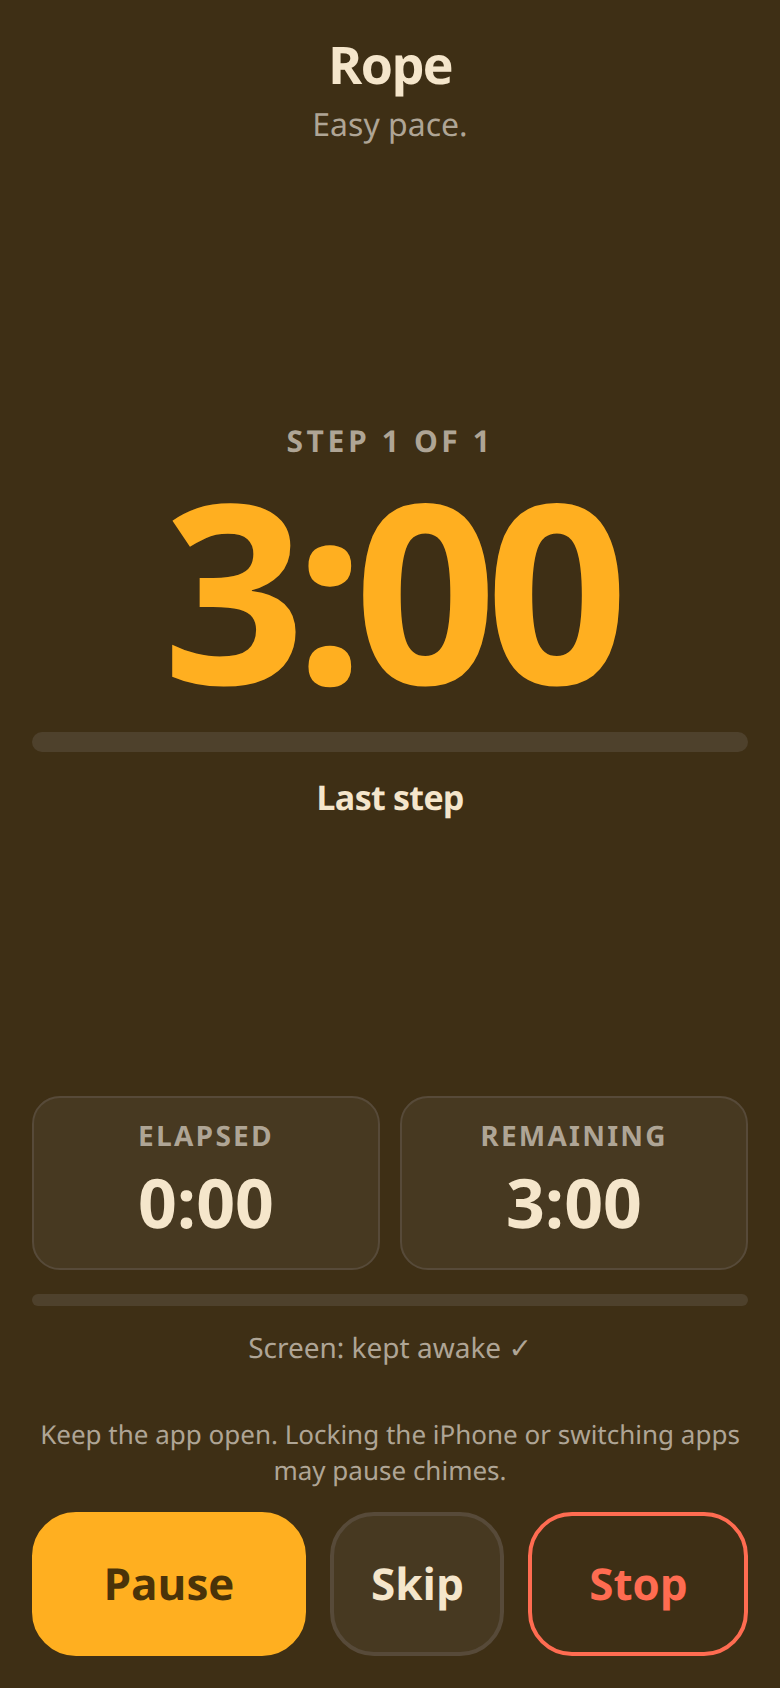
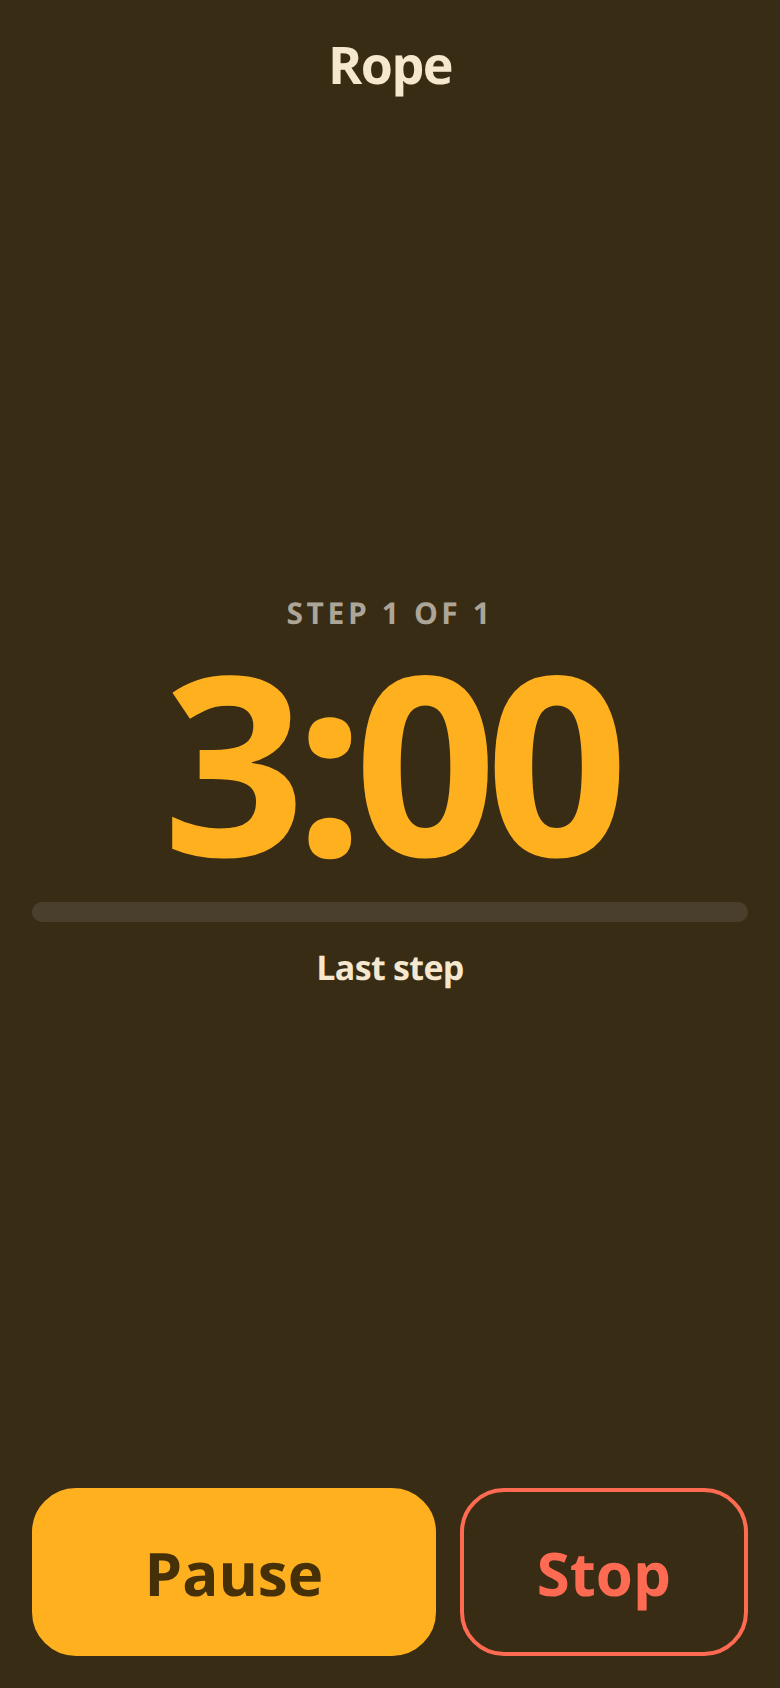
Show the next exercise during rest and drop the extra run-screen copy. (#7)
Rest now names the upcoming step, its cue, and the round. Skip and the keep-the-phone-open notes are gone. Service worker cache is v9.

diff --git a/app.js b/app.js
@@ -1604,6 +1604,35 @@
     var info = workoutAt(el);
     return info.step ? info.step.kind : 'work';
   }
+  function roundBits(step) {
+    var m = String(step && step.name || '').match(/round\s+(\d+)\s+of\s+(\d+)/i);
+    return m ? { n: m[1], of: m[2] } : null;
+  }
+  function currentSetLabel(info) {
+    var step = info.step;
+    var bits = roundBits(step);
+    if (!bits && step && step.kind === 'rest' && info.index > 0) bits = roundBits(run.steps[info.index - 1]);
+    if (bits) return 'Round ' + bits.n + ' of ' + bits.of;
+    return 'Step ' + (info.index + 1) + ' of ' + run.steps.length;
+  }
+  // Rest shows the upcoming work: name, round, and cue. Display only.
+  function nextStepLine(step) {
+    if (!step) return '';
+    if (step.kind === 'rest') return 'Next: Rest';
+    var bits = roundBits(step);
+    var exercise = bits && step.block ? step.block : (step.block && step.block !== step.name ? step.block : step.name);
+    var parts = [];
+    if (exercise) parts.push(exercise);
+    if (bits) parts.push('round ' + bits.n + ' of ' + bits.of);
+    var line = 'Next: ' + parts.join(', ');
+    var cue = String(step.cue || '').replace(/\s+/g, ' ').trim();
+    if (cue) {
+      if (!/[.!?]$/.test(line)) line += '.';
+      line += ' ' + cue;
+      if (!/[.!?]$/.test(cue)) line += '.';
+    }
+    return line.replace(/\s+/g, ' ').trim();
+  }
   function renderWorkout(el, done) {
     ui.run.classList.toggle('paused', run.state === 'paused');
     ui.run.classList.toggle('done', done);
@@ -1634,9 +1663,6 @@
     if (step.cue && step.block && step.block !== step.name) sub = step.block + ' · ' + step.cue;
     else if (step.cue) sub = step.cue;
     else if (step.block && step.block !== step.name) sub = step.block;
-    setText(ui.interval, 'int', step.name);
-    setText(ui.label, 'lbl', run.state === 'paused' ? 'Paused' : ('Step ' + (info.index + 1) + ' of ' + run.steps.length));
-    setText(ui.every, 'every', sub);
     setText(ui.count, 'cnt', cdTxt);
     setText(ui.elapsed, 'el', fmt(el / 1000));
     setText(ui.remaining, 'rem', fmt(Math.ceil(Math.max(0, run.totalMs - el) / 1000 - 1e-6)));
@@ -1646,7 +1672,17 @@
     setWidth(ui.tbar, 'tb', run.totalMs > 0 ? Math.min(100, el / run.totalMs * 100) : 0);
     setText(ui.pause, 'pause', run.state === 'paused' ? 'Resume' : 'Pause');
     var nxt = run.steps[info.index + 1];
-    setNext(nxt ? ('Next · ' + nxt.name) : 'Last step');
+    if (step.kind === 'rest') {
+      setText(ui.interval, 'int', currentSetLabel(info));
+      setText(ui.label, 'lbl', run.state === 'paused' ? 'Paused' : 'Rest');
+      setText(ui.every, 'every', '');
+      setNext(nextStepLine(nxt));
+    } else {
+      setText(ui.interval, 'int', step.name);
+      setText(ui.label, 'lbl', run.state === 'paused' ? 'Paused' : ('Step ' + (info.index + 1) + ' of ' + run.steps.length));
+      setText(ui.every, 'every', sub);
+      setNext(nxt ? ('Next · ' + nxt.name) : 'Last step');
+    }
     document.title = cdTxt + ' · ' + step.name;
   }
   function render() {
@@ -1655,10 +1691,6 @@
     var done = run.state === 'done';
     var isWorkout = run.mode === 'workout';
     ui.run.classList.toggle('workout', isWorkout);
-    if (ui.skip) {
-      ui.skip.hidden = !(isWorkout && !done);
-      ui.controls.classList.toggle('has-skip', isWorkout && !done);
-    }
     if (isWorkout) { renderWorkout(el, done); return; }
     var info = phaseAt(done ? run.totalMs : el);
     ui.run.classList.toggle('paused', run.state === 'paused');
@@ -1696,9 +1728,10 @@
     if (isFinite(run.totalMs)) setWidth(ui.tbar, 'tb', Math.min(100, el / run.totalMs * 100));
     setText(ui.pause, 'pause', run.state === 'paused' ? 'Resume' : 'Pause');
     var lastPhase = isFinite(run.totalMs) && info.phaseEnd >= run.totalMs - 1;
-    if (lastPhase) setNext('Last step');
-    else if (info.inWork) setNext('Next · Rest ' + fmt(run.restMs / 1000));
-    else setNext('Next · Work ' + fmt(run.workMs / 1000));
+    if (info.inWork) setNext('Next · Rest ' + fmt(run.restMs / 1000));
+    else if (!lastPhase && isFinite(info.rounds) && info.roundNum < info.rounds) setNext('Next: Work, round ' + (info.roundNum + 1) + ' of ' + info.rounds);
+    else if (!lastPhase) setNext('Next: Work');
+    else setNext('');
     document.title = cdTxt + ' · ' + (info.inWork ? 'Work' : 'Rest');
   }
 
@@ -1792,7 +1825,7 @@
     ui.next = $('r-next');
     ui.ibar = $('r-ibar'); ui.tbar = $('r-tbar'); ui.tbarWrap = $('r-tbar-wrap');
     ui.elapsed = $('r-elapsed'); ui.remaining = $('r-remaining');
-    ui.pause = $('btn-pause'); ui.skip = $('btn-skip'); ui.stop = $('btn-stop'); ui.controls = ui.pause.parentNode;
+    ui.pause = $('btn-pause'); ui.stop = $('btn-stop'); ui.controls = ui.pause.parentNode;
     ui.doneControls = $('done-controls'); ui.wake = $('r-wake'); ui.audioBanner = $('audio-banner');
     ui.workoutText = $('workout-text'); ui.workoutPreview = $('workout-preview'); ui.workoutStart = $('btn-start-workout');
     if (TEST) $('test-badge').hidden = false;
@@ -1850,7 +1883,6 @@
     $('btn-back').addEventListener('click', function () { run.state = 'done'; stopSession(); });
     ui.workoutText.addEventListener('input', onWorkoutInput);
     ui.workoutStart.addEventListener('click', function () { startWorkout(false); });
-    ui.skip.addEventListener('click', skipStep);
     $('btn-audio-fix').addEventListener('click', function () { ensureAudio(); startKeepAlive(); setTimeout(checkAudioBanner, 300); });
 
     window.addEventListener('resize', function () { if (!ui.setup.hidden) renderWheels(); });

diff --git a/styles.css b/styles.css
@@ -311,9 +311,6 @@ h2 { font-size: 15px; text-transform: uppercase; letter-spacing: .08em; color: v
 .wk-sub li { display: flex; justify-content: space-between; gap: 12px; padding: 3px 0; font-size: 15px; }
 .wk-block.bad { border-color: var(--danger); }
 .wk-block .why { color: #ffb3b5; font-size: 14.5px; line-height: 1.35; }
-.controls.has-skip { grid-template-columns: 1.25fr 0.8fr 1fr; }
-.controls.has-skip .btn.huge { font-size: 22px; min-height: 72px; padding: 8px 6px; }
-.controls.has-skip .btn.danger.confirm { font-size: 16px; }
 #run.workout .r-interval { font-size: 26px; line-height: 1.15; padding: 0 6px; overflow-wrap: break-word; }
 #run.workout .r-every { font-size: 16px; line-height: 1.35; padding: 0 8px; overflow-wrap: break-word; }
 
@@ -334,6 +331,10 @@ h2 { font-size: 15px; text-transform: uppercase; letter-spacing: .08em; color: v
 .run-top { text-align: center; margin-top: 4px; }
 .r-interval { font-size: 32px; font-weight: 800; letter-spacing: -0.03em; line-height: 1.15; }
 .r-every { color: var(--dim); font-size: 17px; margin-top: 4px; line-height: 1.35; }
+#run .r-every,
+#run .stats,
+#run #r-tbar-wrap,
+#run .status { display: none; }
 .count-wrap { text-align: center; flex: 1; display: flex; flex-direction: column; justify-content: center; min-height: 220px; }
 .r-label { color: var(--dim); font-size: 15px; text-transform: uppercase; letter-spacing: .12em; font-weight: 700; }
 .r-count {
@@ -351,6 +352,23 @@ h2 { font-size: 15px; text-transform: uppercase; letter-spacing: .08em; color: v
 }
 .phase-rest .r-count { color: var(--rest); }
 .phase-rest .bar .fill { background: var(--rest); }
+#run.phase-rest .r-label {
+  font-size: clamp(48px, 14vw, 72px);
+  line-height: 1;
+  letter-spacing: 0.06em;
+  color: var(--rest);
+  margin: 8px 0 4px;
+}
+#run.phase-rest .r-interval { font-size: 22px; font-weight: 750; }
+#run.phase-rest .r-next {
+  font-size: 20px;
+  font-weight: 650;
+  line-height: 1.35;
+  max-width: 20em;
+  margin-left: auto;
+  margin-right: auto;
+  padding: 0 8px;
+}
 .paused .r-count { color: var(--dim); animation: blink 1.4s steps(2, start) infinite; }
 .done .r-count { color: var(--ok); font-size: clamp(72px, 22vw, 150px); }
 @keyframes blink { to { opacity: .35; } }

diff --git a/index.html b/index.html
@@ -88,7 +88,6 @@
         </div>
       </section>
 
-      <p class="note">On iPhone, keep this app open with the screen on. Locking the phone or switching apps may pause the chimes.</p>
       <p class="note dim">No tracking. Works offline. Settings are saved on this device.</p>
     </div>
   </main>
@@ -120,7 +119,6 @@
 
     <div class="controls">
       <button type="button" id="btn-pause" class="btn primary huge">Pause</button>
-      <button type="button" id="btn-skip" class="btn huge" hidden>Skip</button>
       <button type="button" id="btn-stop" class="btn danger huge">Stop</button>
     </div>
     <div class="controls done-controls" hidden id="done-controls">
@@ -128,8 +126,7 @@
       <button type="button" id="btn-back" class="btn huge">Done</button>
     </div>
 
-    <p class="status"><span id="r-wake">Screen: …</span></p>
-    <p class="note small">Keep the app open. Locking the iPhone or switching apps may pause chimes.</p>
+    <p class="status" hidden><span id="r-wake">Screen: …</span></p>
   </main>
 
   <div id="flash" class="flash" aria-hidden="true"></div>

diff --git a/sw.js b/sw.js
@@ -1,5 +1,5 @@
 /* Interval Chime service worker: offline app shell, no network calls of its own. */
-var VERSION = 'interval-chime-v8';
+var VERSION = 'interval-chime-v9';
 var ASSETS = [
   './',
   './index.html',

diff --git a/tools/test_app.py b/tools/test_app.py
@@ -568,9 +568,11 @@ with sync_playwright() as p:
     check("minute chimes are scheduled on the audio clock", sched == [60000, 120000], sched)
     spoken = [e["text"] for e in logs(page, ["speak"])]
     check("start speaks the step name and cue", any("Rope" in t and "Easy pace" in t for t in spoken), spoken)
-    wake = page.inner_text("#r-wake")
-    check("workout asks to keep the screen awake", wake.startswith("Screen:") and "…" not in wake, wake)
-    check("workout screen shows the step", page.inner_text("#r-interval") == "Rope" and page.is_visible("#btn-skip"))
+    wake = page.text_content("#r-wake")
+    check("wake lock status is still tracked", wake.startswith("Screen:") and "…" not in wake, wake)
+    body = page.content().lower()
+    check("keep-open notes are gone", "keep the app open" not in body and "keep this app open" not in body and "may pause the chimes" not in body and "may pause chimes" not in body, "")
+    check("workout screen shows the step", page.inner_text("#r-interval") == "Rope")
     check("a single workout step says last step", page.inner_text("#r-next") == "Last step", page.inner_text("#r-next"))
     page.screenshot(path=os.path.join(SCREENS, "workout-running.png"))
     stop(page)
@@ -584,21 +586,49 @@ with sync_playwright() as p:
     st = page.evaluate("window.__chime.state()")
     check("short workout is on Alpha", st["state"] == "running" and st["mode"] == "workout" and st["stepName"] == "Alpha" and page.inner_text("#r-interval") == "Alpha", st)
     check("workout names the next step", page.inner_text("#r-next") == "Next · Beta", page.inner_text("#r-next"))
-    check("pause and skip are available", page.inner_text("#btn-pause") == "Pause" and page.is_visible("#btn-skip"))
+    check("pause is available", page.inner_text("#btn-pause") == "Pause" and page.is_visible("#btn-stop"))
     page.click("#btn-pause")
     e1 = page.evaluate("window.__chime.state()")
     page.wait_for_timeout(700)
     e2 = page.evaluate("window.__chime.state()")
     check("workout pause freezes the clock", e1["state"] == "paused" and page.inner_text("#btn-pause") == "Resume" and abs(e1["elapsed"] - e2["elapsed"]) <= 1, (e1["elapsed"], e2["elapsed"]))
     page.click("#btn-pause")
-    page.click("#btn-skip")
-    page.wait_for_timeout(200)
+    # Alpha is 8s and about 0.3s has already run; the clock reaches Beta on its own.
+    page.wait_for_timeout(8200)
     st = page.evaluate("window.__chime.state()")
-    skipped_speech = [e["text"] for e in logs(page, ["speak"])]
-    check("skip advances to Beta and speaks it", st["stepName"] == "Beta" and page.inner_text("#r-interval") == "Beta" and any(t.startswith("Beta") for t in skipped_speech), (st["stepName"], skipped_speech))
+    spoken_beta = [e["text"] for e in logs(page, ["speak"])]
+    check("the timer advances to Beta and speaks it", st["stepName"] == "Beta" and page.inner_text("#r-interval") == "Beta" and any(t.startswith("Beta") for t in spoken_beta), (st["stepName"], spoken_beta))
     check("the last workout step says last step", page.inner_text("#r-next") == "Last step", page.inner_text("#r-next"))
     stop(page)
     check("stop leaves the workout", page.is_visible("#setup") and page.evaluate("window.__chime.state().state") == "idle")
+
+    page.fill("#workout-text", "Dumbbell bench press, 4 rounds of 2 sec on, 2 sec off: Slow lower.")
+    page.wait_for_timeout(40)
+    page.click("#btn-start-workout")
+    page.wait_for_timeout(2600)
+    rest1 = {
+        "label": page.inner_text("#r-label"),
+        "round": page.inner_text("#r-interval"),
+        "next": page.inner_text("#r-next"),
+        "count": page.inner_text("#r-count"),
+    }
+    check("first rest names the next round",
+          rest1["label"] == "REST" and rest1["round"] == "Round 1 of 4"
+          and rest1["next"] == "Next: Dumbbell bench press, round 2 of 4. Slow lower."
+          and rest1["count"].startswith("0:"),
+          rest1)
+    page.wait_for_timeout(4000)
+    rest2 = {
+        "label": page.inner_text("#r-label"),
+        "round": page.inner_text("#r-interval"),
+        "next": page.inner_text("#r-next"),
+    }
+    check("second rest names round 3 of 4",
+          rest2["label"] == "REST" and rest2["round"] == "Round 2 of 4"
+          and rest2["next"] == "Next: Dumbbell bench press, round 3 of 4. Slow lower.",
+          rest2)
+    stop(page)
+    page.wait_for_timeout(80)
 
     page.fill("#workout-text", "1. **Beep, 2 sec:** Go.")
     page.wait_for_timeout(40)

diff --git a/README.md b/README.md
@@ -14,7 +14,7 @@ The main screen is one three-column wheel: work, rest, and total time. Defaults 
 Below the fold: the old interval and session presets, custom lengths, lead-in beeps, silent-switch audio, volume, and a test chime.
 
 - A bell at the end of each work interval and each rest interval, and a distinct triple chime when the session ends.
-- Big countdown for the current phase (Work or Rest), round count, elapsed and remaining, Pause / Resume / Stop (tap Stop twice to confirm).
+- Big countdown for the current phase (Work or Rest), the current round, and during rest the next step (name, cue, and round). Pause / Resume / Stop (tap Stop twice to confirm).
 - Timing is computed from `performance.now()` (with a wall-clock correction after device sleep). Chimes are pre-scheduled on the Web Audio clock up to 10 minutes ahead.
 - Screen Wake Lock while running, re-acquired when the app becomes visible again.
 - Settings are saved in localStorage.
@@ -29,6 +29,3 @@ Below the fold: the old interval and session presets, custom lengths, lead-in be
   (Safari 17+) and loops a near-silent audio clip. This puts iOS into its media-playback audio mode, so Web Audio ignores the ringer
   switch. Side effect: iOS treats the app like a music player, so it **pauses music or podcasts from other apps**. Turn the
   option off to mix with your music; chimes then follow the silent switch.
-- **Screen lock / app switching:** iOS may suspend web apps in the background. Keep the app open on screen. The wake lock keeps
-  the screen on (iOS 16.4+ in Safari; Home Screen apps need roughly iOS 18.4+). If the screen still sleeps, set
-  Settings > Display & Brightness > Auto-Lock to a longer time during workouts.
